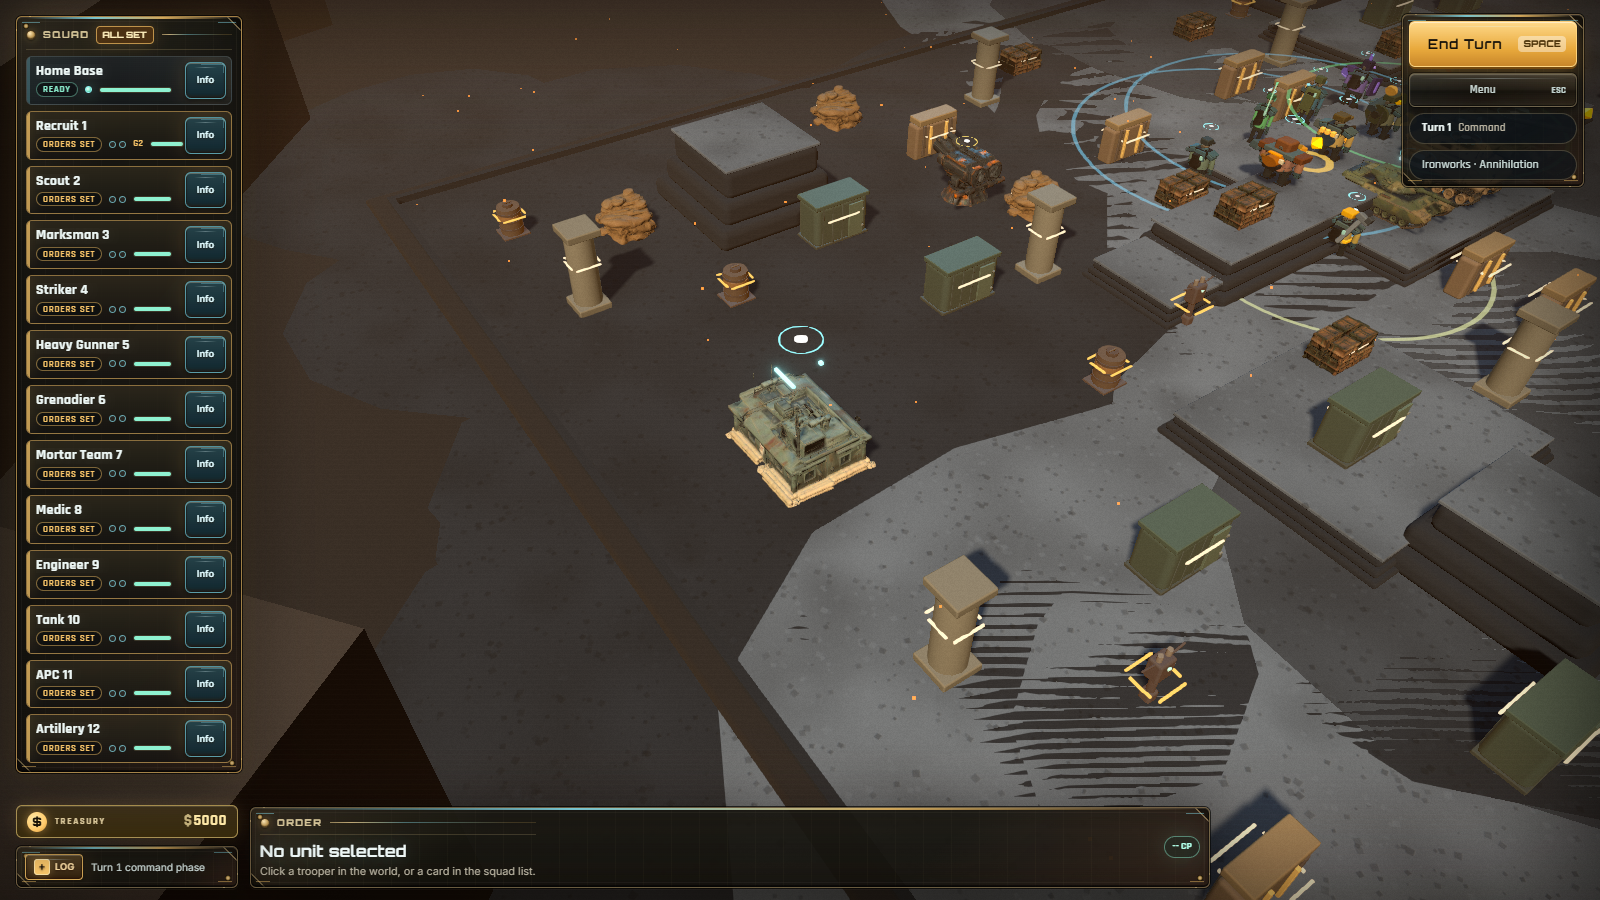
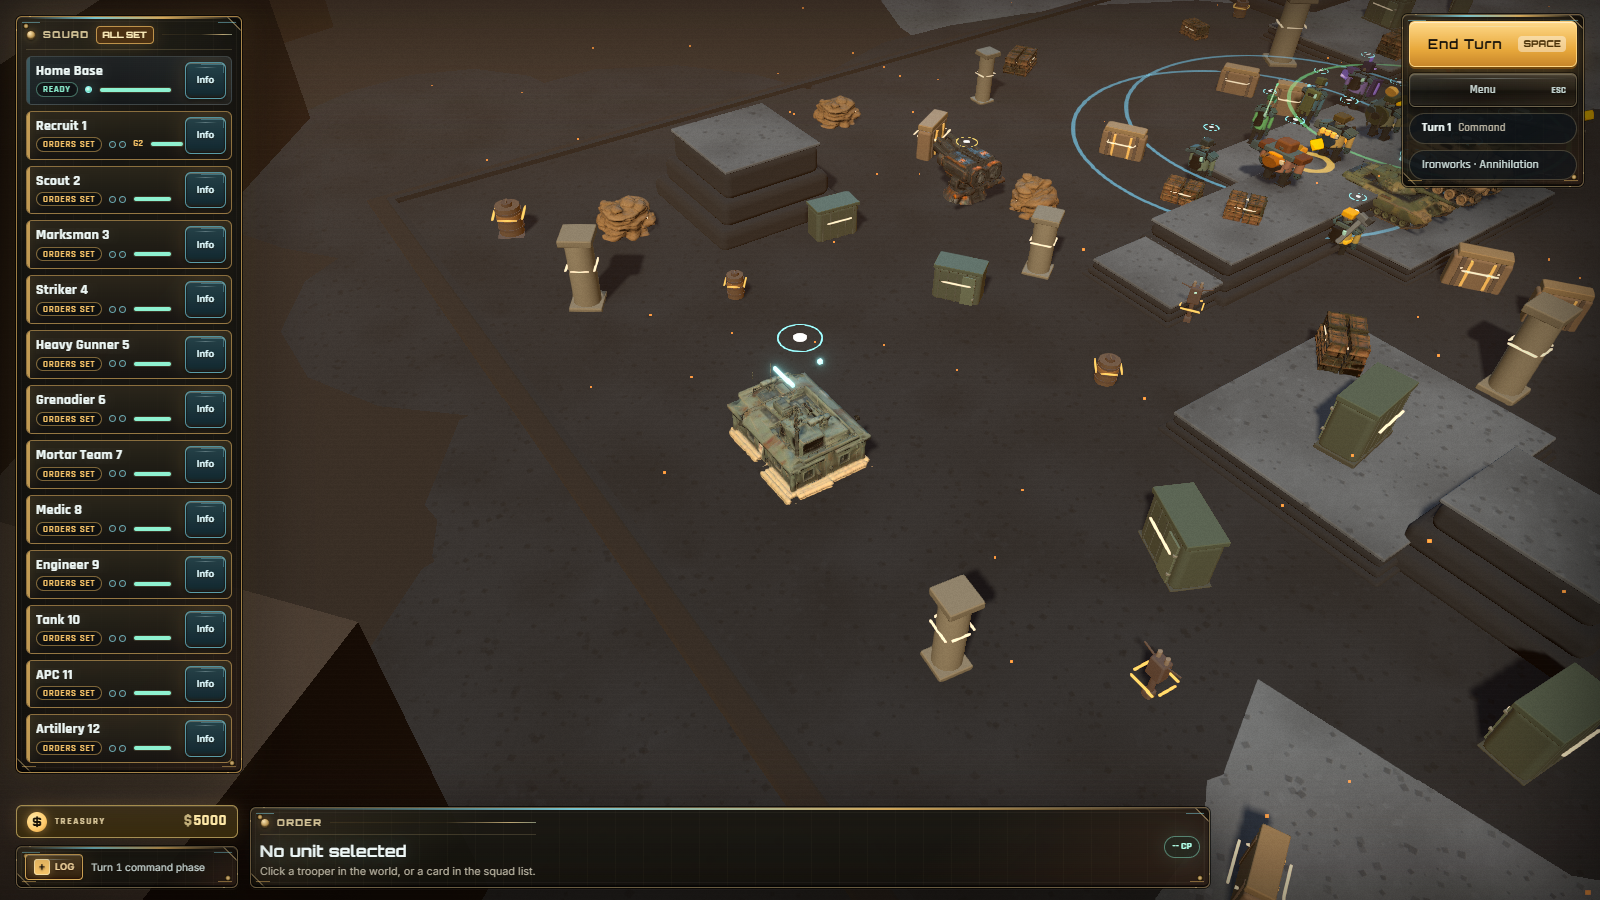
Kill the dashed ground hatching for the fifth time: it was never a shadow
The teeth along patch rims and the hatching over water were bisected as a shadow
for an hour because they sat exactly where the mesa's shadow should be. Turning
the key light's castShadow off left them untouched. Hiding the ground PLATES
removed them. Lifting the plates 0.6 above everything kept them. So: the three
plate variants are separate meshes whose blobs sat at identical heights and
fought each other wherever they overlapped, and the whole layer sat 3mm above the
water surface with a camera near plane of 0.1 that could not resolve any of it at
tactical distance.

- Camera near 0.1 -> 1. It never gets within four units of the board.
- Plates on a 5mm ladder per blob AND per variant, lowest 2cm above grade.
- smoke:ground now asserts every plate height is distinct and clear of the
  floor/water. Fault-injection proven: share heights across variants and all
  five maps fail. It caught my own first ladder, which bottomed out under water.
- probe:depth reproduces the class on demand (hide plates / kill shadows / lift
  plates / restore near=0.1). __rht.cameraObject() exposes the camera for it.
- Ledger entry #5 in CLAUDE.md, plus the rule that fell out: kill shadows FIRST
  before bisecting anything that looks like one.

Also lands the previous session's uncommitted work: cloud shadows drifting over
every ground surface (one texture fetch, no draw calls), and per-instance yaw and
+/-11% scale on scenery so a map reads grown rather than stamped.

diff --git a/game/src/render/worldRenderer.ts b/game/src/render/worldRenderer.ts
@@ -315,6 +315,7 @@ export class WorldRenderer {
     this.syncEnvironment(sim);
     this.syncAmbient();
     this.syncWater();
+    this.syncClouds();
     if (this.silhouetteMode) this.setSilhouette(true);
     this.syncObjectives(sim);
   }
@@ -825,6 +826,12 @@ export class WorldRenderer {
 
   // Scroll the water's ripple normal. Two axes at different rates so the pattern never reads as a
   // texture sliding in one direction, and slow enough that a still frame looks still.
+  /** Drift the cloud deck. Very slow — a shadow should take the better part of a minute to cross. */
+  private syncClouds(): void {
+    const t = performance.now() * 0.0000075;
+    cloudUniforms.uCloudOffset.value.set(t, t * 0.55);
+  }
+
   private syncWater(): void {
     const ripple = this.waterRipple;
     if (!ripple) return;
@@ -907,6 +914,7 @@ export class WorldRenderer {
         metalness: 0.02,
       })
     );
+    applyCloudShadows(floor.material as THREE.MeshStandardMaterial, surface.normalMap);
     floor.position.y = -0.11;
     floor.receiveShadow = true;
     this.sceneryRoot.add(floor);
@@ -1127,13 +1135,27 @@ export class WorldRenderer {
     const renderElevation = prevElevation === undefined ? entity.elevation : prevElevation + (entity.elevation - prevElevation) * 0.2;
     group.userData.renderElevation = renderElevation;
     group.position.set(entity.position.x, renderElevation + bob, entity.position.z);
+    // PER-INSTANCE VARIETY on scenery. Every rock, tree and crate was the same mesh at the same
+    // size on the same bearing, so a map read as stamped rather than grown — the single most
+    // obvious "placeholder" tell left on the board once the shapes themselves were fixed. Cover
+    // gets a deterministic yaw and a modest scale jitter from its own id.
+    //
+    // Yaw is FREE: collision here is a circle of entity.radius, so turning a prop cannot change
+    // what it blocks. Scale is deliberately kept to +/-11% and applied to the visual group only, so
+    // the mesh never drifts far enough from its collision radius for a unit to look like it stopped
+    // early or walked into thin air.
+    const scenery = entity.kind === "cover";
+    const variety = scenery ? hash(entity.id) : 0;
     group.rotation.set(
       isInfantryKind(entity.kind) ? 0.06 * walkWeight : 0,
-      entity.yaw,
+      entity.yaw + (scenery ? ((variety % 360) / 360) * Math.PI * 2 : 0),
       entity.kind === "tank" ? Math.sin(motionTime * 4.8) * 0.018 * walkWeight : 0
     );
     if (defending && isInfantryKind(entity.kind) && entity.status.alive) {
       group.scale.set(1.08, 1, 1.08);
+    } else if (scenery) {
+      const jitter = 0.89 + ((variety >> 9) % 23) / 100;
+      group.scale.set(jitter, 0.92 + ((variety >> 14) % 19) / 100, jitter);
     } else {
       group.scale.setScalar(entity.status.alive ? 1 : 0.94);
     }
@@ -4627,6 +4649,43 @@ function makeSurroundings(theme: MapTheme, width: number, depth: number): THREE.
  * All plates of a variant merge into ONE geometry, so the whole layer is three draw calls.
  */
 /** One ground-texture tile per this many world units. Floor, mesa caps and plates all use it. */
+/**
+ * CLOUD SHADOWS. A world-space noise multiplier that drifts slowly across every ground surface.
+ * A flat-lit field of one colour is the last thing that reads as unfinished once the shapes are
+ * right — nothing in the frame moves, so nothing in the frame feels alive. This costs one extra
+ * texture fetch on the ground materials and no draw calls, and because it is sampled in WORLD space
+ * it lands identically on the floor, the plates and the mesa caps, so a shadow crossing the board
+ * runs over all three as one shape.
+ *
+ * The noise source is the ground's own normal map at a huge scale — no new asset, and its
+ * low-frequency structure is exactly the soft blotchy shape a cloud deck wants.
+ */
+const cloudUniforms = { uCloudOffset: { value: new THREE.Vector2() } };
+
+function applyCloudShadows(material: THREE.MeshStandardMaterial, noise: THREE.Texture): void {
+  material.onBeforeCompile = (shader) => {
+    shader.uniforms.uCloudMap = { value: noise };
+    shader.uniforms.uCloudOffset = cloudUniforms.uCloudOffset;
+    shader.vertexShader = shader.vertexShader
+      .replace("#include <common>", `#include <common>
+varying vec2 vCloudXZ;`)
+      .replace("#include <begin_vertex>", `#include <begin_vertex>
+vCloudXZ = (modelMatrix * vec4(transformed, 1.0)).xz;`);
+    shader.fragmentShader = shader.fragmentShader
+      .replace("#include <common>", `#include <common>
+varying vec2 vCloudXZ;
+uniform sampler2D uCloudMap;
+uniform vec2 uCloudOffset;`)
+      .replace("#include <map_fragment>", `#include <map_fragment>
+// ~85 world units per cloud, so a shadow is a feature of the map rather than of a texture.
+float cloud = texture2D(uCloudMap, vCloudXZ / 85.0 + uCloudOffset).g;
+// Shallow: 0.86 to 1.0. Deeper reads as dirt rather than weather.
+diffuseColor.rgb *= mix(0.86, 1.0, smoothstep(0.35, 0.72, cloud));`);
+  };
+  // A distinct cache key so this variant compiles and warms separately from the plain one.
+  material.customProgramCacheKey = () => "cloudshadow";
+}
+
 const GROUND_TILE = 11;
 /**
  * A flat, irregular ground blob: a triangle fan whose rim radius wanders per vertex, so the outline
@@ -4708,7 +4767,7 @@ function makeGroundPlates(theme: MapTheme, width: number, depth: number, surface
   plateNormal.repeat.set(1, 1);
   const area = width * depth;
   const perVariant = Math.max(5, Math.round(area / 620));
-  for (const variant of variants) {
+  for (const [vi, variant] of variants.entries()) {
     const parts: THREE.BufferGeometry[] = [];
     for (let i = 0; i < perVariant; i += 1) {
       const cx = (rand() - 0.5) * width * 0.92;
@@ -4721,7 +4780,13 @@ function makeGroundPlates(theme: MapTheme, width: number, depth: number, surface
         parts.push(blobGeometry(
           6 + rand() * 9,
           cx + (rand() - 0.5) * 9,
-          -k * 0.0018,
+          // 6cm above grade, 5mm per blob AND per variant (nine steps, lowest 2cm). The floor top is
+          // at -0.02 and a water surface at -0.015; a 2mm stagger from y=0 put plates within the depth buffer's
+          // resolution of both at the far edge of a large map. Worse, the three variants are separate
+          // meshes whose k-th blobs sat at IDENTICAL heights, so wherever a light patch overlapped a
+          // dark one they were exactly coplanar and fought — the dashed "teeth" along patch rims that
+          // survived every shadow-bias change because they were never a shadow (ledger #3).
+          0.06 - (vi * 3 + k) * 0.005,
           cz + (rand() - 0.5) * 9,
           rand,
         ));
@@ -4750,6 +4815,7 @@ function makeGroundPlates(theme: MapTheme, width: number, depth: number, surface
         polygonOffsetUnits: -2,
       })
     );
+    applyCloudShadows(mesh.material as THREE.MeshStandardMaterial, plateNormal);
     mesh.receiveShadow = true;
     group.add(mesh);
   }
@@ -4864,6 +4930,9 @@ function makeTerrainBlocks(groundColor: number, accentColor: number, surface: Gr
       polygonOffsetFactor: -1,
       polygonOffsetUnits: -1,
     }));
+    // The caps share the cloud deck too, so a shadow crossing the board runs over the mesa tops
+    // as one continuous shape instead of stopping at their edges.
+    applyCloudShadows(mesh.material as THREE.MeshStandardMaterial, capNormal);
     mesh.receiveShadow = true;
     // Caps still do not cast: see the ledger in CLAUDE.md. One merged mesh makes the old
     // cap-vs-cap depth fight structurally impossible, but the body casts the same footprint anyway.

diff --git a/game/src/main.ts b/game/src/main.ts
@@ -2235,6 +2235,8 @@ declare global {
       sceneGraph(): { total: number; topLevel: number };
       // The live Three scene root — QA probes census it (draw-work attribution).
       sceneRoot(): object;
+      /** The live perspective camera (probes vary near/far to reproduce depth fights). */
+      cameraObject(): object;
       setDebugOverlay(on: boolean): boolean;
       // Black-silhouette mode: every unit renders as a flat black shape on white. The
       // "name each unit from its outline alone" test -- a recolour variant fails it instantly.
@@ -2321,6 +2323,7 @@ window.__rht = {
   partColors: (entityId: string) => world.partColors(entityId),
   sceneGraph: () => ({ total: countSceneObjects(), topLevel: stage.scene.children.length }),
   sceneRoot: () => stage.scene,
+  cameraObject: () => stage.camera,
   setDebugOverlay: (on) => { debugOverlay.setEnabled(on); return debugOverlay.isEnabled(); },
   silhouette: (on) => { world.setSilhouette(on); stage.setSilhouette(on); },
   auditUI: () => auditUI(),

diff --git a/game/src/render/stage.ts b/game/src/render/stage.ts
@@ -127,7 +127,11 @@ export class Stage {
     this.scene.background = makeSkyTexture();
     this.scene.fog = new THREE.FogExp2(0x6a4a33, 0.019);
 
-    this.camera = new THREE.PerspectiveCamera(48, window.innerWidth / window.innerHeight, 0.1, 160);
+    // NEAR = 1, not 0.1. Depth precision scales with near, and the camera never comes within ~4
+    // units of the board (baseDistance * min zoom). At 0.1 the buffer could not separate the ground
+    // plates' 2mm stagger at tactical distance, and the coplanar fight read as dashed hatching
+    // across the arena — ledger #3 in CLAUDE.md, found by hiding scene groups, not by tuning.
+    this.camera = new THREE.PerspectiveCamera(48, window.innerWidth / window.innerHeight, 1, 160);
     this.updateCamera();
 
     // LIGHT BUDGET. The rig previously summed to ~5.0 across four sources, three of which were

diff --git a/CLAUDE.md b/CLAUDE.md
@@ -66,7 +66,7 @@ drive headless Chromium via `window.__rht`.
 
 ## THE GROUND-HATCHING LEDGER — read this before touching the ground, shadows, or terrain
 
-A fine dashed/striped hatching across the ground has been reported **four separate times** in this
+A fine dashed/striped hatching across the ground has been reported **five separate times** in this
 repo. Each report was a DIFFERENT cause that looked identical on screen, and each was chased with
 guesses before anyone measured. Every fix below is load-bearing; if hatching is reported again,
 work this list first and **do not start by tuning the ground texture** — three rounds were lost
@@ -78,6 +78,7 @@ that way and the cause was never once in it.
 | 2 | **Terrain-block CAPS overhang their block by 1cm**, so neighbouring caps in a stepped mesa overlap and two coplanar surfaces fight in the shadow depth pass. | `cap.castShadow = false`. The body beneath casts the same footprint. | `npm run probe:shadow <scenario>` — bisects casting off one group at a time. |
 | 3 | **Coplanar z-fight between ground plates** — overlapping slabs of one patch all topped out at exactly y=0. | Each slab staggered ~2mm in depth. | Survives `probe:shadow` (it is a main-pass depth issue, not a shadow one) — that is how #3 is told apart from #2. |
 | 4 | **Shadow acne** on the near-flat arena under a low sun. | `shadow.normalBias` sized to the shadow TEXEL (~4cm at the current frustum), not a tenth of one. | `npm run probe:ground` — strips albedo, then normal map, then particles, one at a time. |
+| 5 | **Ground PLATES coplanar with each other and with water** (2026-09-15). The three plate variants are separate meshes whose blobs sat at identical heights, and all of them sat 3mm above the water surface; with the camera near plane at 0.1 the depth buffer could not separate any of it at tactical distance. Read as dashed "teeth" along patch rims and as hatching over water — and it survived a full shadow-caster bisection because it was never a shadow. | Camera `near` = 1 (it never gets within 4 units of the board); plates on a 5mm ladder per blob AND per variant, lowest 2cm above grade. | `npm run smoke:ground` asserts every plate height is distinct and clear of the floor/water (fault-injection proven: make two variants share heights and all five maps fail). `npm run probe:depth <scenario>` reproduces it on demand (hides plates, kills shadows, lifts plates, restores near=0.1). |
 
 Two rules that fall out of this and apply beyond hatching:
 
@@ -86,7 +87,10 @@ Two rules that fall out of this and apply beyond hatching:
   and a ground plane is a PlaneGeometry rotated flat, so its depth sits on Y and its Z extent is
   zero — every plane in the scene was skipped. It only became a gate after the bug was deliberately
   re-added and the gate was made to fail.
-- **Bisect before you tune.** Every one of these four was found by turning things off one at a time
+- **A dark shape on the ground is not necessarily a shadow.** #5 was bisected as a shadow for an hour
+  because it sat exactly where the mesa's shadow should be. Turn the key light's `castShadow` off FIRST:
+  if the artefact is still there, stop touching the shadow pass.
+- **Bisect before you tune.** Every one of these five was found by turning things off one at a time
   (`probe:shadow`, `probe:ground`), and none was found by adjusting a number and looking.
 
 ## Blender-authored infantry parts (`npm run art:kit`)
